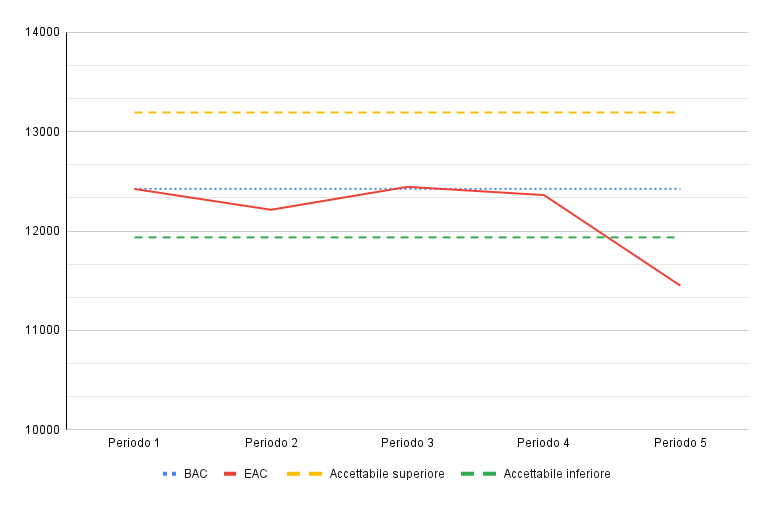
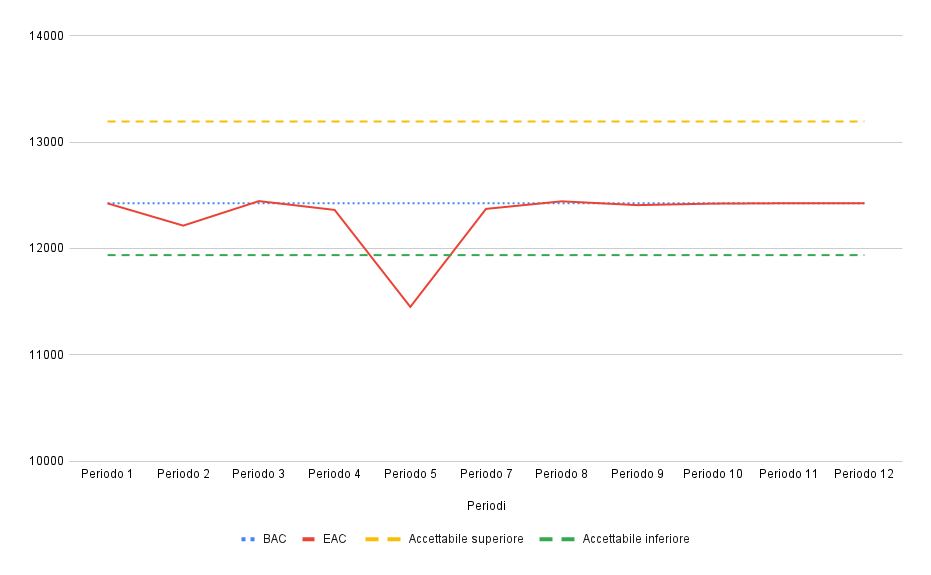
Aggiornamento metriche con attuali valori

diff --git a/Documenti_Esterni/Sottosezioni/Piano_di_qualifica/Qualità_Fornitura.tex b/Documenti_Esterni/Sottosezioni/Piano_di_qualifica/Qualità_Fornitura.tex
@@ -31,9 +31,11 @@
 
 Tuttavia al quinto periodo, periodo di sessione degli esami, il costo totale è di molto inferiore al budget preventivato.
 
+Questo è dovuto al fatto che in quel periodo c'è stato un calo di \textit{attività}\textsubscript{\textit{G}}, in quanto i membri del gruppo erano impegnati con gli esami universitari. Le \textit{attività}\textsubscript{\textit{G}} però rimanenti sono state completate con un costo inferiore a quello preventivato e questo ha portato ad una riduzione del costo totale.\\
 \vspace{0.2cm}
 
-Questo è dovuto al fatto che in quel periodo c'è stato un calo di \textit{attività}\textsubscript{\textit{G}}, in quanto i membri del gruppo erano impegnati con gli esami universitari. Le \textit{attività}\textsubscript{\textit{G}} però rimanenti sono state completate con un costo inferiore a quello preventivato e questo ha portato ad una riduzione del costo totale.\\
+\textbf{PB}: si nota come, nei restanti dei periodi,nonostante una diminuzione registrata nel quinto periodo, la stima del costo totale è rientrata nei limiti di accettazione. Inoltre, tale stima è rimasta in stretta aderenza al budget preventivato. Questo fenomeno indica un’efficace gestione dei costi.
+
 
 \subsubsection{M7EV- Earned Value + M8PV - Planned Value} 
 
@@ -49,10 +51,11 @@ Questo è dovuto al fatto che in quel periodo c'è stato un calo di \textit{atti
 \vspace{0.2cm}
 
 \textbf{RTB}: dall'analisi del grafico, è chiaro che le curve del valore guadagnato (Earned Value) e del valore pianificato (Planned Value) si sovrappongono, suggerendo che il lavoro effettivamente completato corrisponde alla pianificazione. 
+Questa coincidenza implica un progresso positivo rispetto alla pianificazione del progetto.
 
 \vspace{0.2cm}
-
-Questa coincidenza implica un progresso positivo rispetto alla pianificazione del progetto.
+\textbf{PB}:  Dall'analisi del grafico, si evince una congruenza pressoché totale tra le traiettorie del valore guadagnato (EV) e del valore pianficato (PV), a conferma dell'allineamento del completamento del lavoro con la pianificazione originaria.
+La convergenza delle due curve con la stima dei costi totali (EAC) nell'ultimo periodo convalida il rispetto del budget preventivato e il completamento dei lavori in linea con le previsioni iniziali.
 
 \subsubsection{M5AC - Actual Cost + M9ETC - Estimate to Complete}
 
@@ -72,6 +75,13 @@ Questa coincidenza implica un progresso positivo rispetto alla pianificazione de
 \vspace{0.2cm}
 
 Si osserva che l'\textit{ETC}\textsubscript{\textit{G}} tende a diminuire, come atteso, mentre l'AC mostra un incremento proporzionale alla riduzione dell'\textit{ETC}\textsubscript{\textit{G}}.
+
+\vspace{0.2cm}
+\textbf{PB}: il grafico illustra l'Actual Cost (AC), ossia i costi effettivi sostenuti per il lavoro completato fino al periodo corrente, convergere con l'Estimated at Completion (EAC) nell'ultimo periodo.
+Ciò significa che i costi sostenuti sono stati in linea con la stima del costo totale del progetto, a dimostrazione di un efficace controllo e gestione delle risorse finanziarie. Inoltre, l'andamento dell'Estimate to Complete (ETC), ovvero la stima dei costi residui necessari per completare il progetto, evidenzia una graduale diminuzione nel corso del tempo, fino ad azzerarsi nel periodo finale.
+
+\vspace{0.2cm}
+Tale risultato conferma il completamento del progetto in linea con le previsioni di budget e la corretta pianificazione delle attività.
 
 \subsubsection{M4BV - Budget Variance + M6SV - Schedule Variance}
 
@@ -103,6 +113,10 @@ La Schedule Variance risulta altalenante in alcuni periodi, suggerendo che duran
 
 Nell'ultimo periodo si è raggiunto l'ottimo per la Schedule Variance. 
 
+\vspace{0.2cm}
+\textbf{PB}: Dall'analisi del grafico si nota che la Budget Variance (BV), che rappresenta la differenza tra il valore guadagnato (EV) e i costi sostenuti (AC), si attesta su valori prossimi all'ottimale dopo i periodi relativi all'RTB, indicando un'efficace gestione dei costi e un'accurata stima delle risorse necessarie per il completamento dei lavori.
+Analogamente, la Schedule Variance (SV), che indica la differenza tra il valore guadagnato (EV) e il valore pianificato (PV), raggiunge valori ottimali. Questo conferma una pianificazione efficace e un puntuale rispetto dei tempi previsti per il completamento dei lavori.
+
 \subsubsection{M3CPI - Cost Performance Index}
 
 \vspace{0.3cm}
@@ -122,6 +136,9 @@ Nell'ultimo periodo si è raggiunto l'ottimo per la Schedule Variance.
 
 In particolare, nell'ultimo periodo, si osserva un incremento del \textit{CPI}\textsubscript{\textit{G}}, indicando che le \textit{attività}\textsubscript{\textit{G}} rimanenti sono state completate con un costo inferiore rispetto a quanto inizialmente previsto.
 
+\vspace{0.2cm}
+\textbf{PB}: il grafico mostra un Cost Performance Index (CPI) costantemente prossimo a 1, a conferma di un'efficace gestione dei costi e di un'accurata stima delle risorse necessarie per il completamento dei lavori.
+
 \subsubsection{M11RNP - Rischi non previsti}
 
 \vspace{0.3cm}
@@ -136,3 +153,6 @@ In particolare, nell'ultimo periodo, si osserva un incremento del \textit{CPI}\t
 \vspace{0.2cm}
 
 \textbf{RTB}: il grafico mostra come i rischi non previsti siano rimasti costanti durante tutto il progetto. Questo è un buon segno, in quanto indica che il gruppo è stato in grado di gestire i rischi in modo efficace e che non sono emersi nuovi rischi inaspettati.
+
+\vspace{0.2cm}
+\textbf{PB}: il grafico mostra come i nei rimanenti periodi i rischi non previsti siano rimasti costanti. Questo è un buon segno, in quanto indica che il gruppo è stato in grado di gestire i rischi in modo efficace e che non sono emersi nuovi rischi inaspettati.
